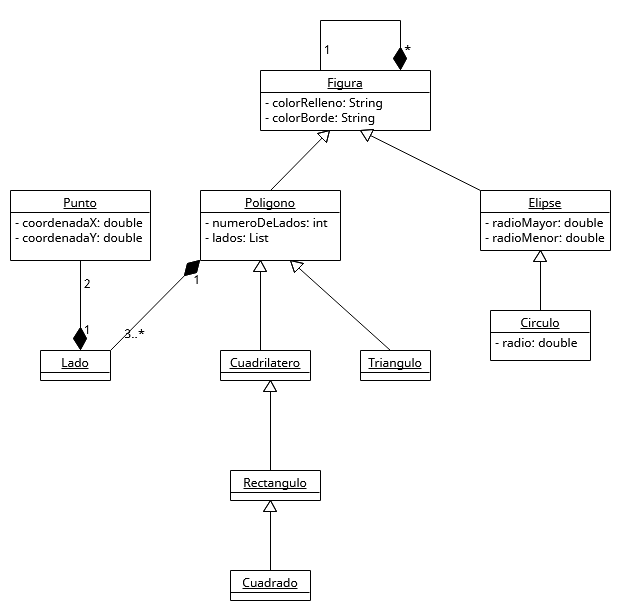
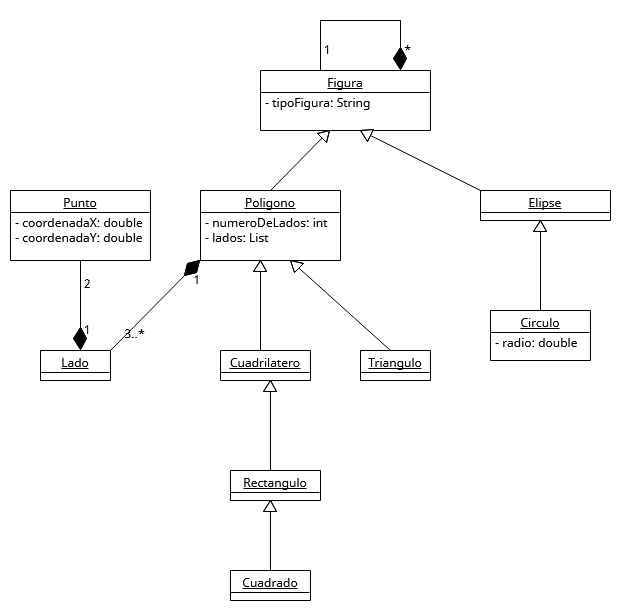
Actualización: Se agregaron los archivos referidos al ejercicio 4 y se modificó el UML del ejercicio 1.

Changed region(s): [[0.7968, 0.3426, 0.9806, 0.4361], [0.429, 0.1557, 0.6129, 0.218]]

diff --git a/src/EJ04/AsesorSiembra.java b/src/EJ04/AsesorSiembra.java
@@ -1,0 +1,36 @@
+package EJ04;
+
+import EJ04.enums.Mineral;
+import EJ04.enums.TipoCereal;
+
+public class AsesorSiembra {
+    public boolean aconsejar(Cereal cereal, Lote lote) {
+        System.out.println("===================================================================");
+        System.out.println("Analizando viabilidad de siembra...");
+        System.out.println("Lote: " + lote.getNumeroLote() + " (Clasificación: " + lote.getTipoLote() + ")");
+        System.out.println("Cereal a sembrar: " + cereal.getNombre() + "(Tipo: " + cereal.getTipoCereal() + ")");
+        System.out.println("---------------------------------------------------------------");
+
+        if (cereal.getTipoCereal() == TipoCereal.PASTURA) {
+            for (Cereal cerealPrevio : lote.getHistorialSiembra()) {
+                if (cerealPrevio.getTipoCereal() == TipoCereal.PASTURA) {
+                    System.out.println("-- CONSEJO: RECHAZADO. Ya se sembró una pastura (" + cerealPrevio.getNombre() + ") previamente en este lote.");
+                    System.out.println("===================================================================\n");
+                    return false;
+                }
+            }
+        }
+
+        for (Mineral mineralRequerido : cereal.getMineralesRequeridos()) {
+            if (!lote.getMineralesContenidos().contains(mineralRequerido)) {
+                System.out.println("-- CONSEJO: RECHAZADO. El lote no cuenta con el mineral requerido: " + mineralRequerido);
+                System.out.println("===================================================================\n");
+                return false;
+            }
+        }
+
+        System.out.println("-- CONSEJO: APROBADO. El lote " + lote.getNumeroLote() + " es apto para sembrar " + cereal.getNombre() + ".");
+        System.out.println("===================================================================\n");
+        return true;
+    }
+}

diff --git a/src/EJ04/Lote.java b/src/EJ04/Lote.java
@@ -1,0 +1,45 @@
+package EJ04;
+
+import EJ04.enums.Mineral;
+import EJ04.enums.TipoLote;
+
+import java.util.ArrayList;
+import java.util.List;
+
+public class Lote {
+    private int numeroLote;
+    private TipoLote tipoLote;
+    private List<Mineral> mineralesContenidos;
+    private List<Cereal> historialSiembra; // Para guardar lo que ya se plantó
+
+    public Lote(int numeroLote) {
+        this.numeroLote = numeroLote;
+        this.mineralesContenidos = new ArrayList<>();
+        this.historialSiembra = new ArrayList<>();
+        this.tipoLote = TipoLote.COMUN; //valor por defecto
+    }
+
+    public void agregarMineral(Mineral mineral) {
+        this.mineralesContenidos.add(mineral);
+        actualizarClasificacion();
+    }
+
+    public void registrarSiembra(Cereal cereal) {
+        this.historialSiembra.add(cereal);
+    }
+
+    private void actualizarClasificacion() {
+        for (Mineral mineral : mineralesContenidos) {
+            if (mineral.isEsPrimario()) {
+                this.tipoLote = TipoLote.ESPECIAL; // Si encuentra al menos uno primario se clasifica como especial
+                return;
+            }
+        }
+        this.tipoLote = TipoLote.COMUN;
+    }
+
+    public int getNumeroLote() {return numeroLote;}
+    public TipoLote getTipoLote() {return tipoLote;}
+    public List<Mineral> getMineralesContenidos() {return mineralesContenidos;}
+    public List<Cereal> getHistorialSiembra() {return historialSiembra;}
+}

diff --git a/src/EJ04/Main.java b/src/EJ04/Main.java
@@ -1,0 +1,32 @@
+package EJ04;
+
+import EJ04.enums.Mineral;
+import EJ04.enums.NombreCereal;
+
+public class Main {
+    public static void main(String[] args) {
+
+        AsesorSiembra asesorSiembra = new AsesorSiembra();
+
+        Lote lote1 = new Lote(1);
+        lote1.agregarMineral(Mineral.NITROGENO);
+        lote1.agregarMineral(Mineral.POTASIO);
+        lote1.agregarMineral(Mineral.FOSFORO);
+
+        Cereal cereal1 = new Cereal(NombreCereal.ALFALFA);
+        cereal1.agregarMineralRequerido(Mineral.NITROGENO);
+        cereal1.agregarMineralRequerido(Mineral.POTASIO);
+        cereal1.agregarMineralRequerido(Mineral.FOSFORO);
+
+        if (asesorSiembra.aconsejar(cereal1, lote1)) { lote1.registrarSiembra(cereal1); }
+
+        System.out.println("------------ FORZAMOS EL ERROR AHORA ------------");
+
+        Cereal cereal2 = new Cereal(NombreCereal.TREBOL_SUBTERRANEO);
+        cereal2.agregarMineralRequerido(Mineral.NITROGENO);
+        cereal2.agregarMineralRequerido(Mineral.POTASIO);
+        cereal2.agregarMineralRequerido(Mineral.FOSFORO);
+
+        asesorSiembra.aconsejar(cereal2, lote1);
+    }
+}

diff --git a/src/EJ04/Cereal.java b/src/EJ04/Cereal.java
@@ -1,0 +1,28 @@
+package EJ04;
+
+import EJ04.enums.Mineral;
+import EJ04.enums.NombreCereal;
+import EJ04.enums.TipoCereal;
+
+import java.util.ArrayList;
+import java.util.List;
+
+public class Cereal {
+    private NombreCereal nombre;
+    private TipoCereal tipoCereal;
+    private List<Mineral> mineralesRequeridos;
+
+    public Cereal(NombreCereal nombre) {
+        this.nombre = nombre;
+        this.tipoCereal = nombre.getClasificacion();
+        this.mineralesRequeridos = new ArrayList<>();
+    }
+
+    public void agregarMineralRequerido(Mineral mineral) {
+        this.mineralesRequeridos.add(mineral);
+    }
+
+    public NombreCereal getNombre() {return nombre;}
+    public TipoCereal getTipoCereal() {return tipoCereal;}
+    public List<Mineral> getMineralesRequeridos() {return mineralesRequeridos;}
+}

diff --git a/src/EJ04/enums/NombreCereal.java b/src/EJ04/enums/NombreCereal.java
@@ -1,0 +1,18 @@
+package EJ04.enums;
+
+public enum NombreCereal {
+    GIRASOL(TipoCereal.COSECHA_GRUESA),
+    MAIZ(TipoCereal.COSECHA_GRUESA),
+    TRIGO(TipoCereal.COSECHA_FINA),
+    AVENA(TipoCereal.COSECHA_FINA),
+    ALFALFA(TipoCereal.PASTURA),
+    TREBOL_SUBTERRANEO(TipoCereal.PASTURA);
+
+    private final TipoCereal clasificacion;
+
+    NombreCereal(TipoCereal clasificacion) {
+        this.clasificacion = clasificacion;
+    }
+
+    public TipoCereal getClasificacion() {return clasificacion;}
+}

diff --git a/src/EJ04/enums/Mineral.java b/src/EJ04/enums/Mineral.java
@@ -1,0 +1,18 @@
+package EJ04.enums;
+
+public enum Mineral {
+    // Definimos minerales y tambien definimos si son de interes primario (true) o secundario (false)
+    NITROGENO(true),
+    FOSFORO(true),
+    POTASIO(false),
+    CALCIO(false),
+    AZUFRE(false);
+
+    private final boolean esPrimario;
+
+    Mineral(boolean esPrimario) {
+        this.esPrimario = esPrimario;
+    }
+
+    public boolean isEsPrimario() {return esPrimario;}
+}

diff --git a/src/EJ04/enums/TipoCereal.java b/src/EJ04/enums/TipoCereal.java
@@ -1,0 +1,5 @@
+package EJ04.enums;
+
+public enum TipoCereal {
+    COSECHA_GRUESA, COSECHA_FINA, PASTURA;
+}

diff --git a/src/EJ04/enums/TipoLote.java b/src/EJ04/enums/TipoLote.java
@@ -1,0 +1,5 @@
+package EJ04.enums;
+
+public enum TipoLote {
+    ESPECIAL, COMUN;
+}
